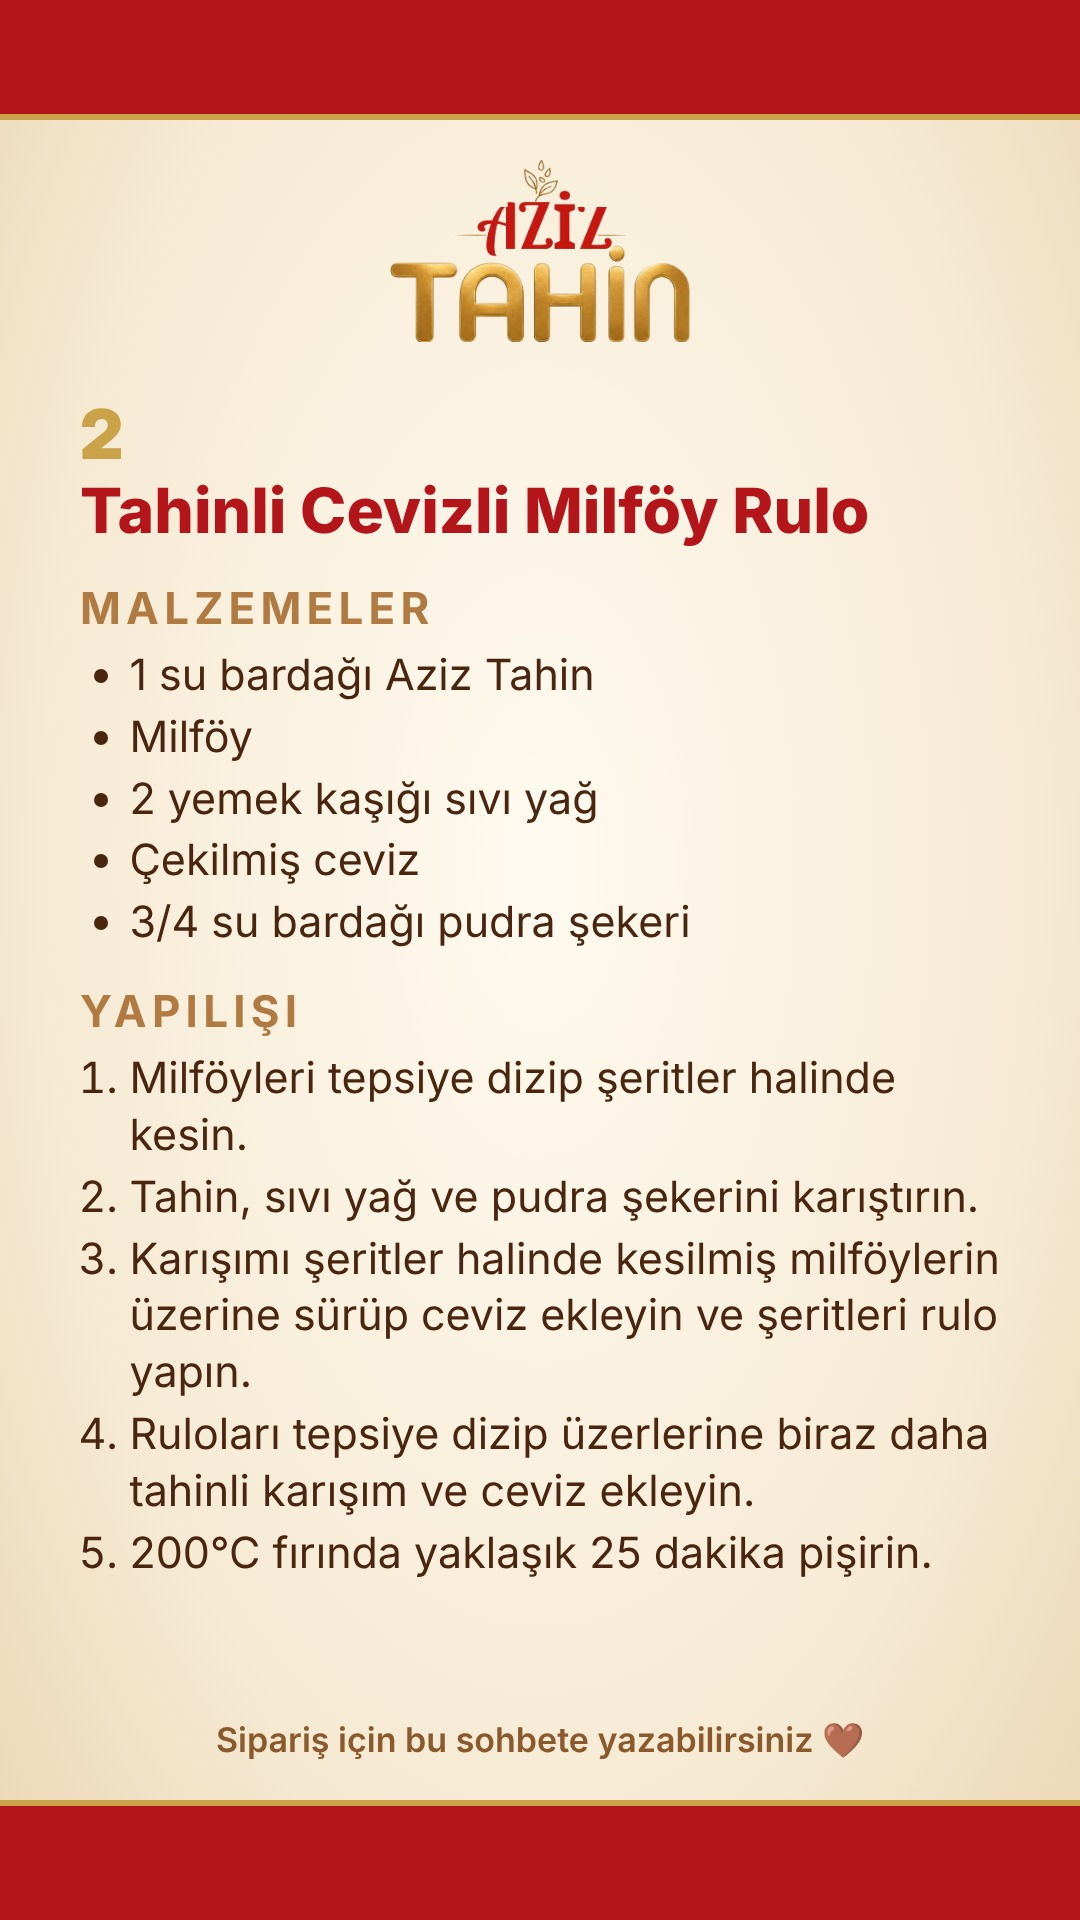
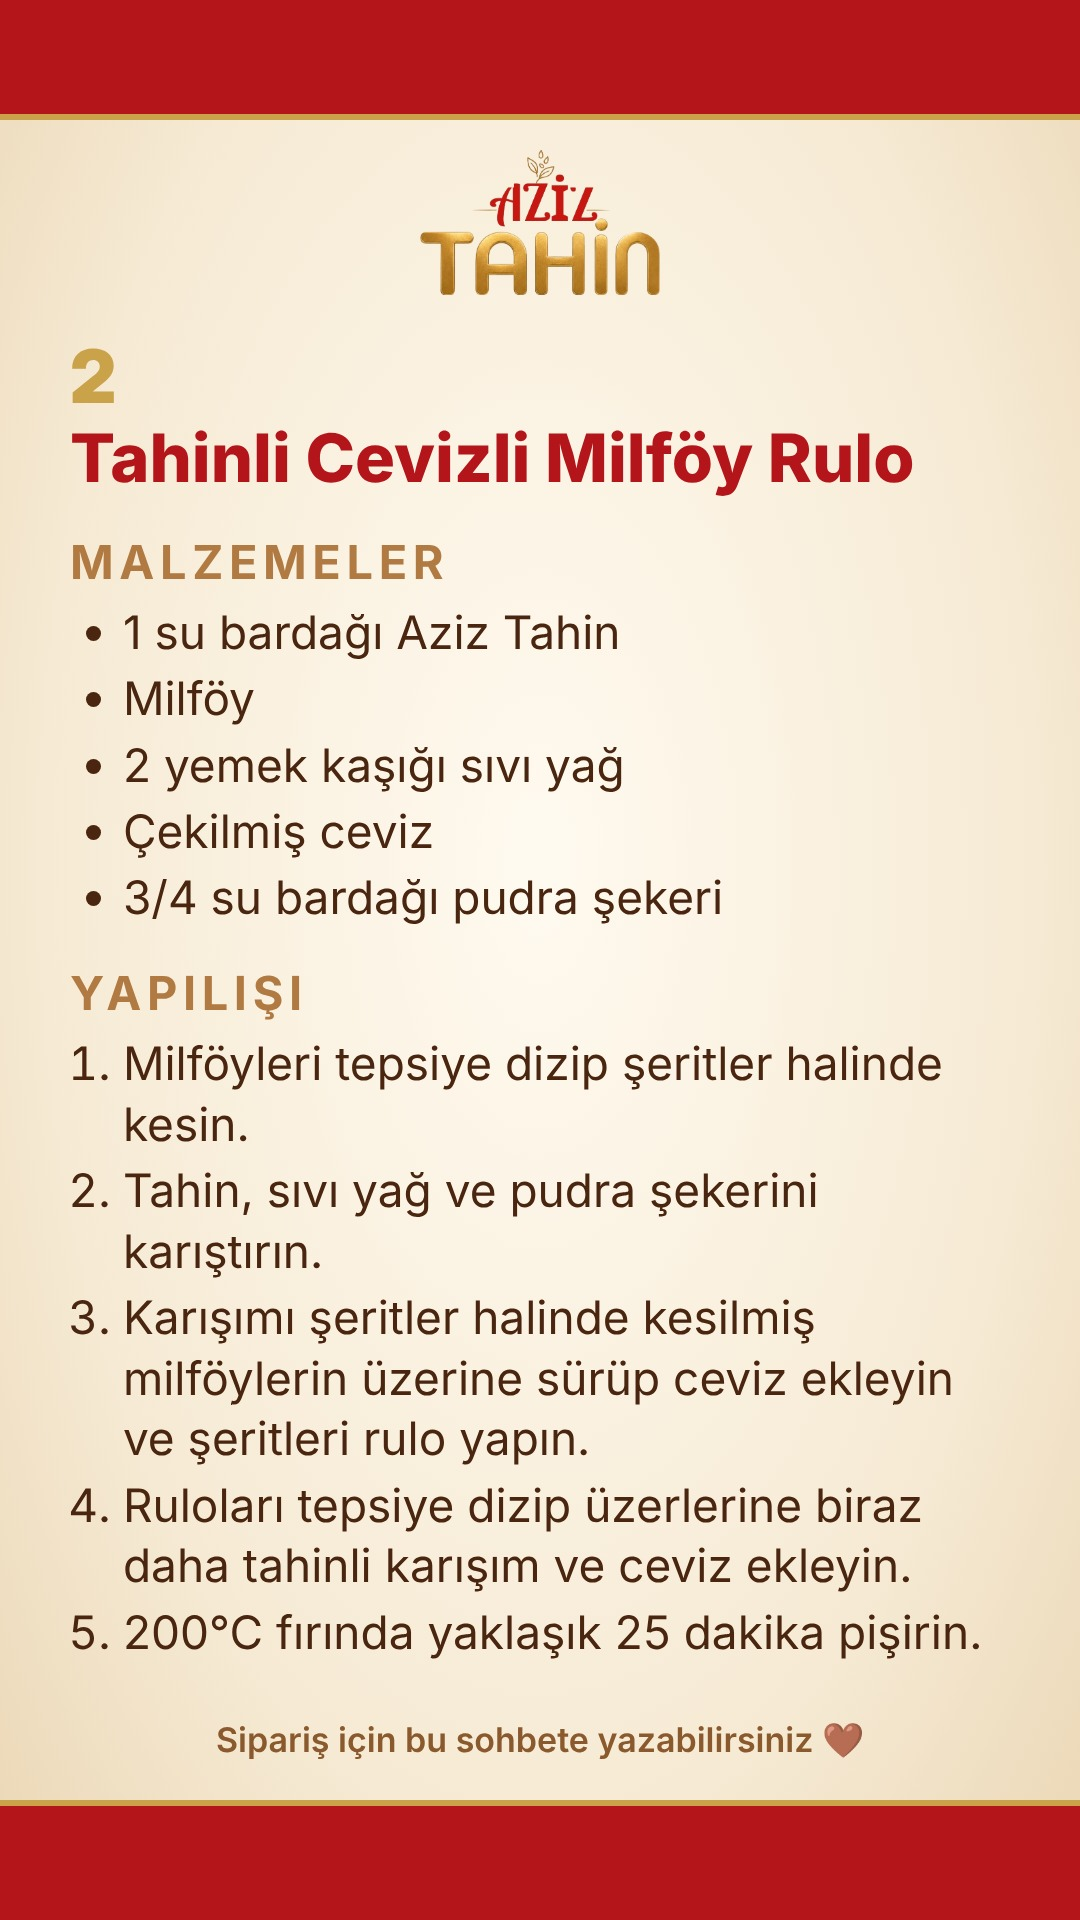
DM: tavuk tarifi tek görselde, PİŞİR adımı kaldırıldı
Claude-Session: https://claude.ai/code/session_01LbgBc4wPXWRgFMDuR8TYQV

diff --git a/.claude/instagram/yayin/gorsel-uretici/dmtarif.py b/.claude/instagram/yayin/gorsel-uretici/dmtarif.py
@@ -22,8 +22,8 @@ def body_html(b):
     return ''.join(out)
 CSS="""*{margin:0;padding:0;box-sizing:border-box}body{width:1080px;height:1920px;overflow:hidden;font-family:'Inter',sans-serif;background:radial-gradient(ellipse at 50% 45%,#fffaf0 0%,#f6ead4 65%,#ead6b4 100%);color:#4a2510;position:relative}
 .band{position:absolute;left:0;right:0;height:120px;background:#b3151b}.top{top:0;border-bottom:6px solid #c9a24a}.bot{bottom:0;border-top:6px solid #c9a24a}
-.logo{position:absolute;top:160px;left:50%;transform:translateX(-50%);width:300px}
-#c{position:absolute;top:400px;left:80px;right:80px;bottom:260px;overflow:hidden}
+.logo{position:absolute;top:150px;left:50%;transform:translateX(-50%);width:240px}
+#c{position:absolute;top:340px;left:70px;right:70px;bottom:230px;overflow:hidden}
 .no{font-family:'Inter Display';font-weight:900;color:#c9a24a;font-size:1.6em;line-height:1}
 h2{font-size:1.45em;font-weight:800;color:#b3151b;line-height:1.15;margin:.1em 0 .15em}
 .meta{color:#8a5a2e;font-weight:600;margin-bottom:.5em}
@@ -35,14 +35,13 @@ ul,ol{padding-left:1.15em}li{margin:.12em 0;line-height:1.32}p{line-height:1.35;
 """
 FIT="<script>let c=document.getElementById('c');let s=46;c.style.fontSize=s+'px';while(c.scrollHeight>c.clientHeight&&s>24){s--;c.style.fontSize=s+'px'}document.title=s</script>"
 def page(inner,fit=True): return f"<!doctype html><html><head><meta charset='utf-8'><style>{CSS}</style></head><body><div class='band top'></div><img class='logo' src='logo.png'>{inner}<div class='foot'>Sipariş için bu sohbete yazabilirsiniz <span class='e'>🤎</span></div><div class='band bot'></div>{FIT if fit else ''}</body></html>"
-frames=[("tarif-0-kapak",page("<div class='cover'><div style='font-size:44px;font-weight:600;letter-spacing:8px;color:#b07a42'>ÖNE ÇIKAN</div><div style='font-size:120px;font-weight:900;color:#b3151b;line-height:1'>Tarifler</div><div style='font-size:56px;font-weight:700'>Aziz Tahin ile<br>5 tarif</div><div style='font-size:42px;color:#6b3a1c'>Kaydırın, kaydedin <span class='e'>🥄</span></div></div>",False))]
+frames=[]
+_unused=[("tarif-0-kapak",page("<div class='cover'><div style='font-size:44px;font-weight:600;letter-spacing:8px;color:#b07a42'>ÖNE ÇIKAN</div><div style='font-size:120px;font-weight:900;color:#b3151b;line-height:1'>Tarifler</div><div style='font-size:56px;font-weight:700'>Aziz Tahin ile<br>5 tarif</div><div style='font-size:42px;color:#6b3a1c'>Kaydırın, kaydedin <span class='e'>🥄</span></div></div>",False))]
 for p in parts:
     n,t,meta,b=parse(p)
     head=f"<div class='no'>{n}</div><h2>{html.escape(t)}</h2>"+(f"<div class='meta'>{html.escape(meta)}</div>" if meta else "")
-    if n=='1':
-        a,y=b.split('\nYapılışı:',1)
-        frames.append((f"tarif-{n}a",page(f"<div id='c'>{head}{body_html(a)}</div>")))
-        frames.append((f"tarif-{n}b",page(f"<div id='c'>{head.replace('</h2>',' <span style=\"font-size:.6em;color:#8a5a2e\">(devamı)</span></h2>')}{body_html('Yapılışı:'+y)}</div>")))
+    if False:
+        pass
     else:
         frames.append((f"tarif-{n}",page(f"<div id='c'>{head}{body_html(b)}</div>")))
 ids=[]

diff --git a/.claude/instagram/dm-otomatik-yanit.md b/.claude/instagram/dm-otomatik-yanit.md
@@ -3,7 +3,7 @@
 Etkileşimli tarif yolculuğu: yoruma (ya da DM'e) "TAHİN" yazan kişi her adımda bir sonraki kelimeyi yazarak 5 tarifi sırayla alır. Özel anahtar kelime yanıtları 500 karakterle sınırlı olduğu için tarifler **görsel** olarak gider; metin yalnızca kısa bir açıklama ve sonraki kelimedir.
 
 ```
-TAHİN → BAŞLA → PİŞİR → RULO → HUMUS → ENERJİ → KAŞIK
+TAHİN → BAŞLA → RULO → HUMUS → ENERJİ → KAŞIK
 ```
 
 Görselleri bilgisayarınıza indirmek için her adımdaki bağlantıya tıklayıp görsele sağ tıklayın → **Resmi farklı kaydet**.
@@ -32,37 +32,23 @@ DM'den yazdık 🤎
 
 **Yanıt:** yukarıdaki özel mesajın aynısı.
 
-## 3-8. Tarif adımları (Özel anahtar kelimeler, her biri ayrı otomasyon)
+## 3-7. Tarif adımları (Özel anahtar kelimeler, her biri ayrı otomasyon)
 
 ### 3. BAŞLA
 
 **Anahtar kelimeler:** `başla`, `Başla`, `BAŞLA`, `basla`
 
-**Medya:** [dm-tarif-1a.jpg](https://raw.githubusercontent.com/tay1an/instagram-agent-skill/main/.claude/instagram/gorseller/dm-tarif-1a.jpg)
+**Medya:** [dm-tarif-1.jpg](https://raw.githubusercontent.com/tay1an/instagram-agent-skill/main/.claude/instagram/gorseller/dm-tarif-1.jpg)
 
-**Yanıt** (128 karakter):
-
-```
-1. tarif: Bademli Tahin Soslu Tavuk 🤎 Malzemeler görselde, kaydetmeyi unutmayın.
-
-Malzemeler hazır mı? Yapılışı için PİŞİR yazın
-```
-
-### 4. PİŞİR
-
-**Anahtar kelimeler:** `pişir`, `Pişir`, `PİŞİR`, `pisir`
-
-**Medya:** [dm-tarif-1b.jpg](https://raw.githubusercontent.com/tay1an/instagram-agent-skill/main/.claude/instagram/gorseller/dm-tarif-1b.jpg)
-
-**Yanıt** (96 karakter):
+**Yanıt** (145 karakter):
 
 ```
-Tavuğun yapılışı görselde. Afiyet olsun! 🍽
+1. tarif: Bademli Tahin Soslu Tavuk 🤎 Malzemeler ve yapılışı görselde, kaydetmeyi unutmayın.
 
 2. tarif tatlıdan geliyor, görmek için RULO yazın 🤎
 ```
 
-### 5. RULO
+### 4. RULO
 
 **Anahtar kelimeler:** `rulo`, `Rulo`, `RULO`
 
@@ -76,7 +62,7 @@ Tavuğun yapılışı görselde. Afiyet olsun! 🍽
 3. tarif mezeden: görmek için HUMUS yazın 🥄
 ```
 
-### 6. HUMUS
+### 5. HUMUS
 
 **Anahtar kelimeler:** `humus`, `Humus`, `HUMUS`
 
@@ -90,7 +76,7 @@ Tavuğun yapılışı görselde. Afiyet olsun! 🍽
 4. tarif fırınsız bir atıştırmalık: görmek için ENERJİ yazın ✨
 ```
 
-### 7. ENERJİ
+### 6. ENERJİ
 
 **Anahtar kelimeler:** `enerji`, `Enerji`, `ENERJİ`, `ENERJI`
 
@@ -104,7 +90,7 @@ Tavuğun yapılışı görselde. Afiyet olsun! 🍽
 Ve son tarif, kahvaltının yıldızı: görmek için KAŞIK yazın 🥄
 ```
 
-### 8. KAŞIK
+### 7. KAŞIK
 
 **Anahtar kelimeler:** `kaşık`, `Kaşık`, `KAŞIK`, `kasik`
 
